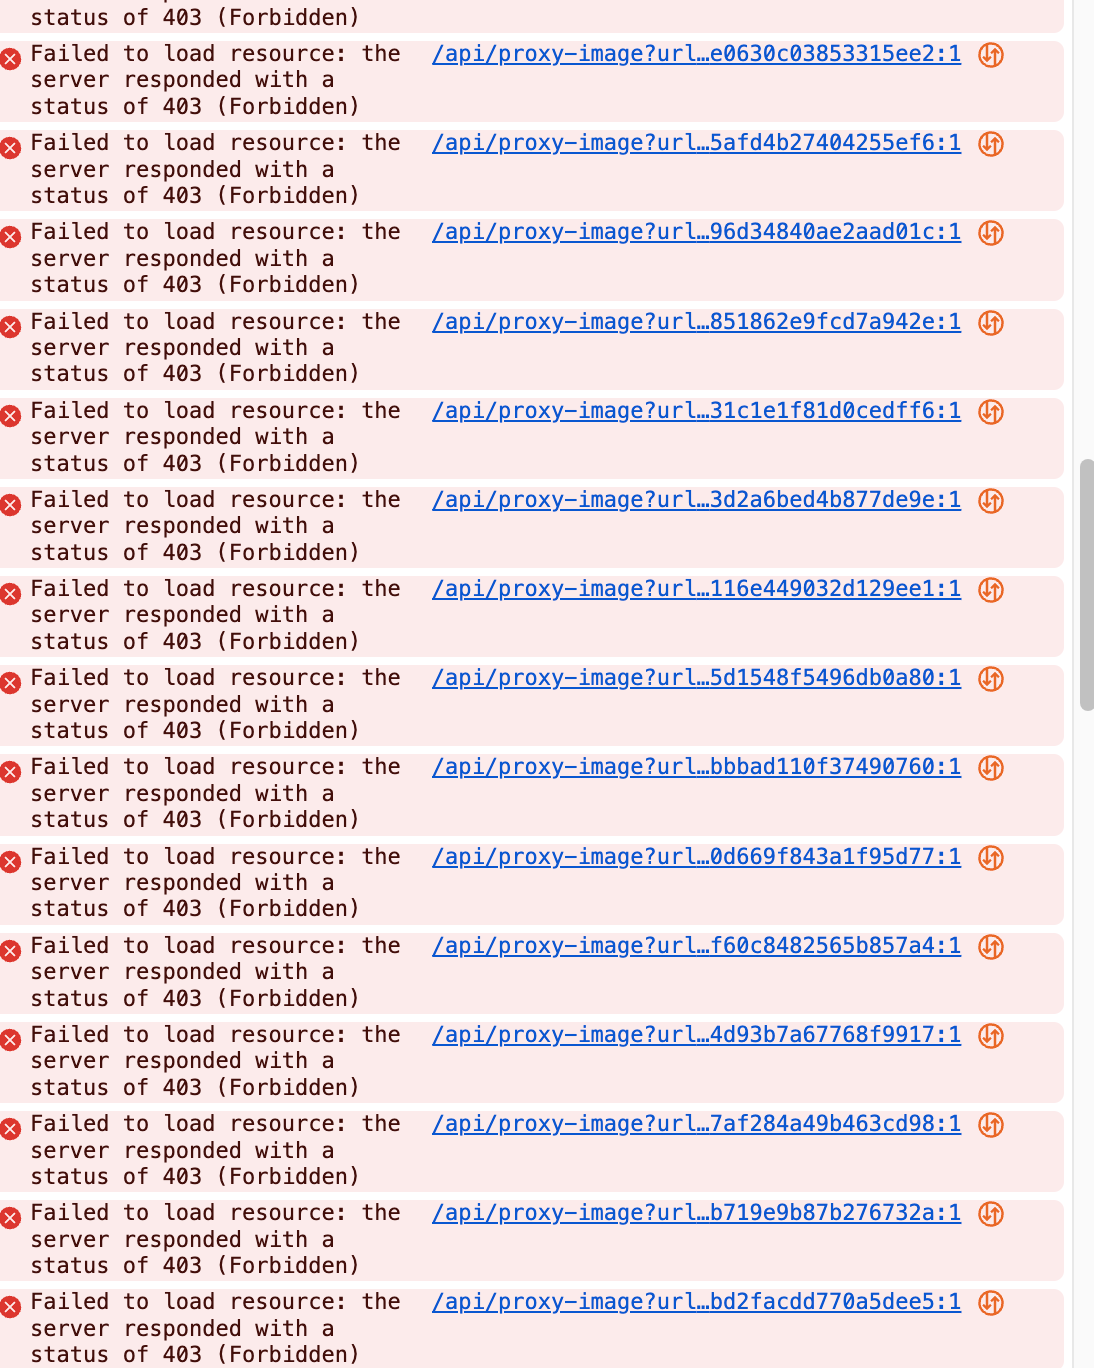
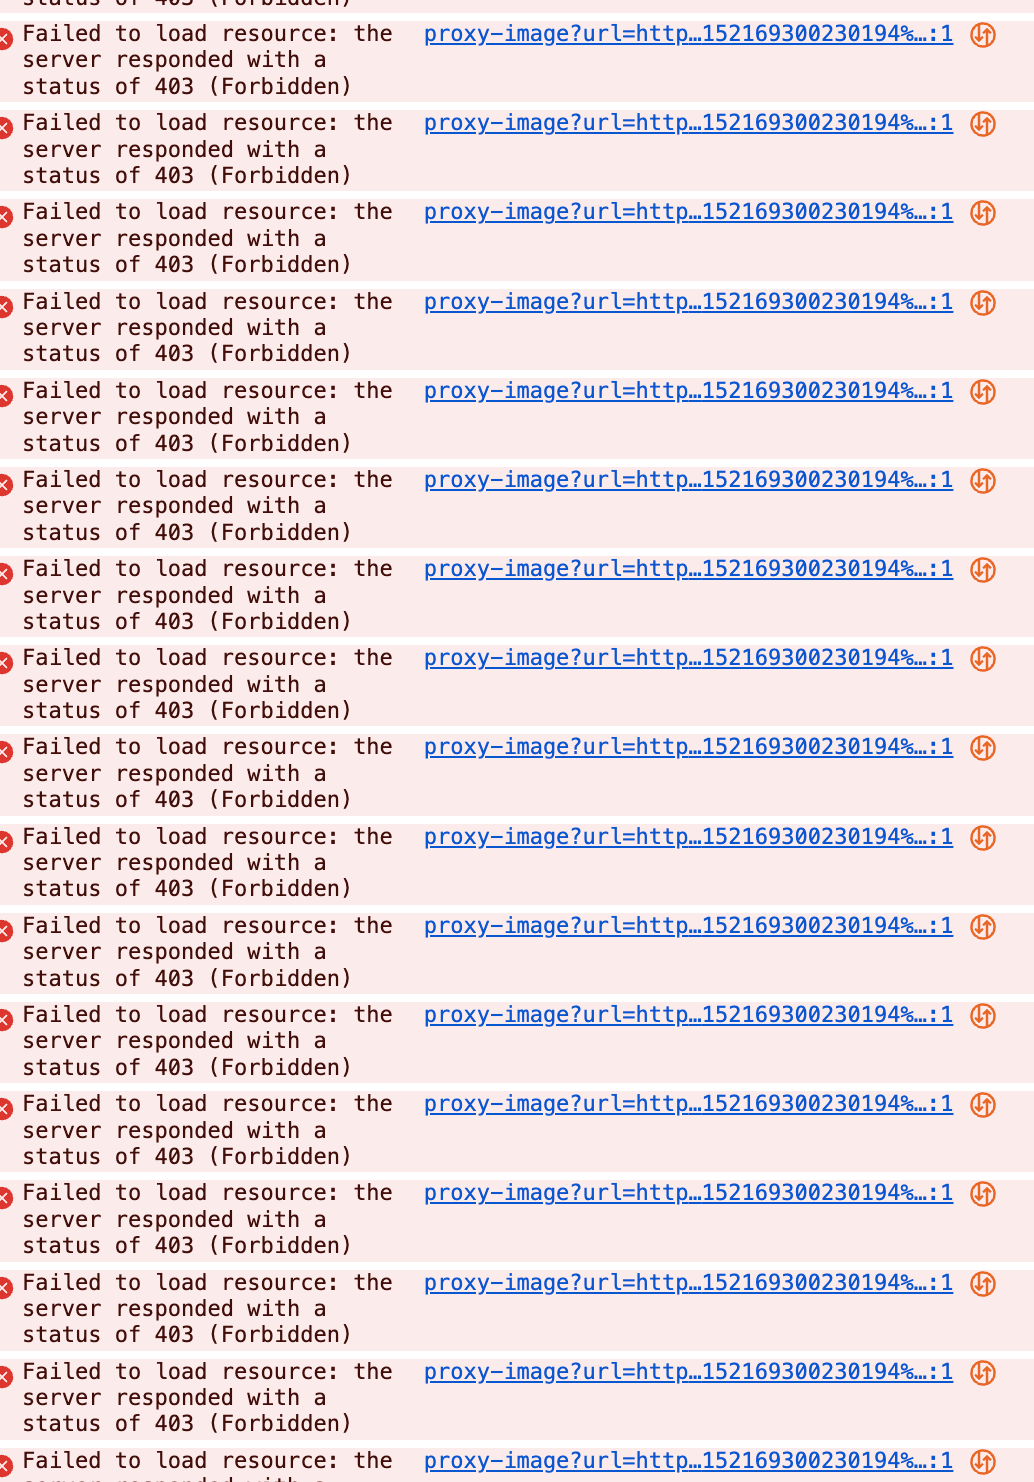
fix: 修复 useImageSource 强制启用代理导致本地资源 403 错误

diff --git a/hooks/common/use-image-source.ts b/hooks/common/use-image-source.ts
@@ -8,7 +8,10 @@ export function useImageSource(url?: string, _localId?: string) {
 
     useEffect(() => {
         if (url) {
-            setSource(formatImageUrl(url, true));
+            // 对于本地静态资源（以 / 开头）和对象存储路径，不启用代理
+            // 只有外部 URL 才需要代理
+            const needsProxy = url.startsWith('http://') || url.startsWith('https://');
+            setSource(formatImageUrl(url, needsProxy));
         }
     }, [url]);
 
